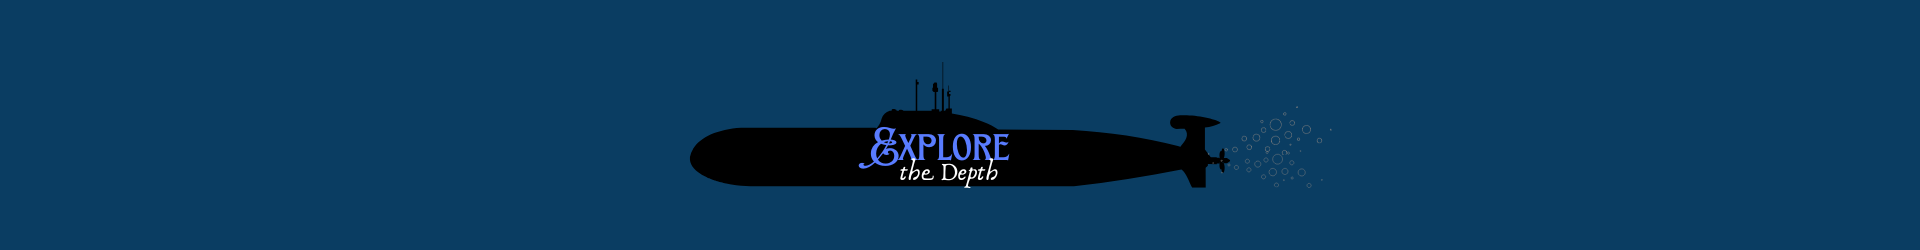
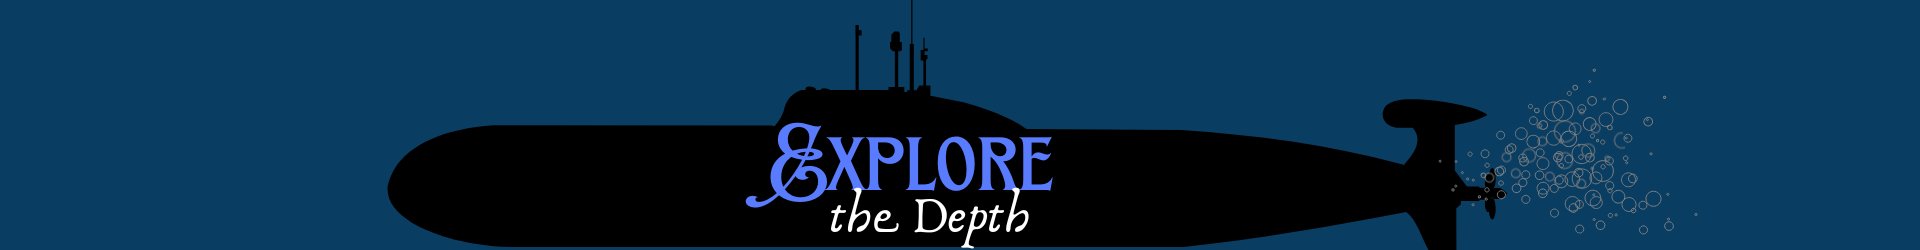
bug

Changed region(s): [[0.1875, 0.112, 0.875, 1.0], [0.8125, 0.896, 0.8438, 0.924]]

diff --git a/src/index.css b/src/index.css
@@ -1457,18 +1457,19 @@ button {
 .trynow {
   width: 100%;
   display: flex;
-  align-items: center;
   justify-content: center;
   overflow: hidden;
 }
 
+.trynow picture,
 .trynow img {
- 
-  min-height: clamp(200px, 60vh, 260px);
+  width: 100%;
+  display: block;
 }
-@media screen and (max-width: 768px) {
-  .trynow {
-    width: 100%; /* reduce height instead of width */
-  }
-  
+
+.trynow img {
+  height: auto;          /* keep aspect ratio */
+  max-height: 260px;     /* optional */
+  object-fit: cover;    /* fill nicely */
 }
+

diff --git a/src/Server/Server.js b/src/Server/Server.js
@@ -24,8 +24,8 @@ app.use(cookieParser());
 // In Render production, frontend URL must be correct
 const corsOptions = {
   origin: 
-  "https://eveningcollectionfront.onrender.com",
-  
+  // "https://eveningcollectionfront.onrender.com",
+  "http://localhost:5173",
   credentials: true,
   methods: ["GET", "POST", "PUT", "DELETE", "OPTIONS"],
   allowedHeaders: ["Content-Type", "Authorization"],

diff --git a/src/components/Home.jsx b/src/components/Home.jsx
@@ -99,7 +99,10 @@ function Home() {
         )}
       </div>
       <div className="trynow">
-        <img src={trynow} alt="Try Now" />
+        <picture>
+           <img src={trynow} alt="Try Now" />
+        </picture>
+        
       </div>
 
       <div className="splContainer">
